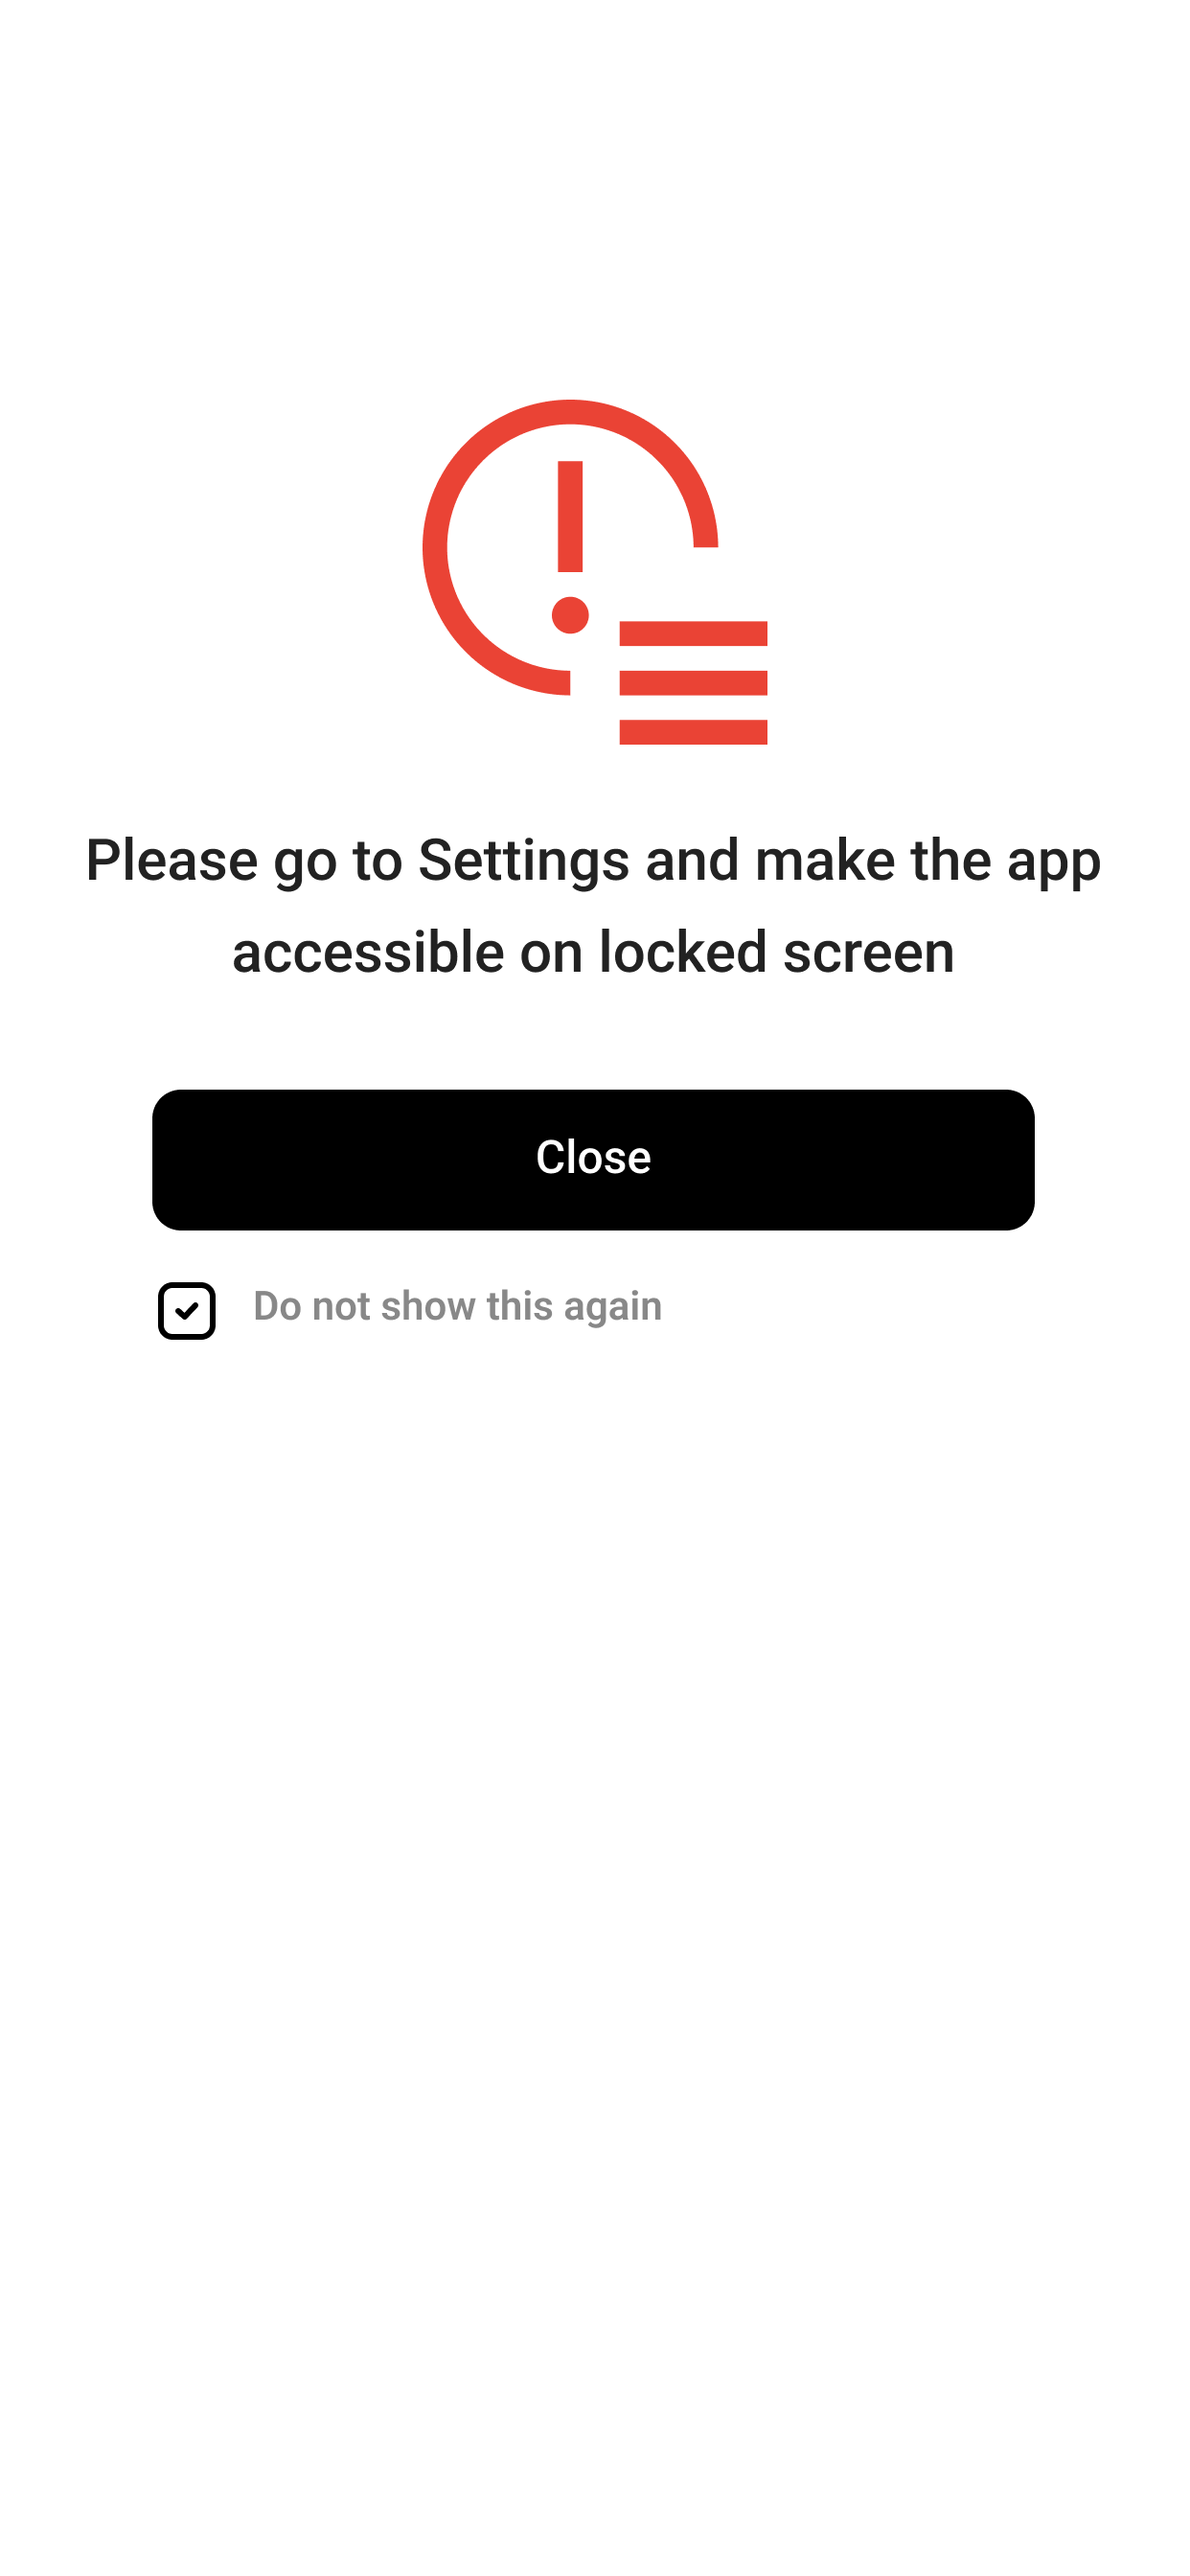
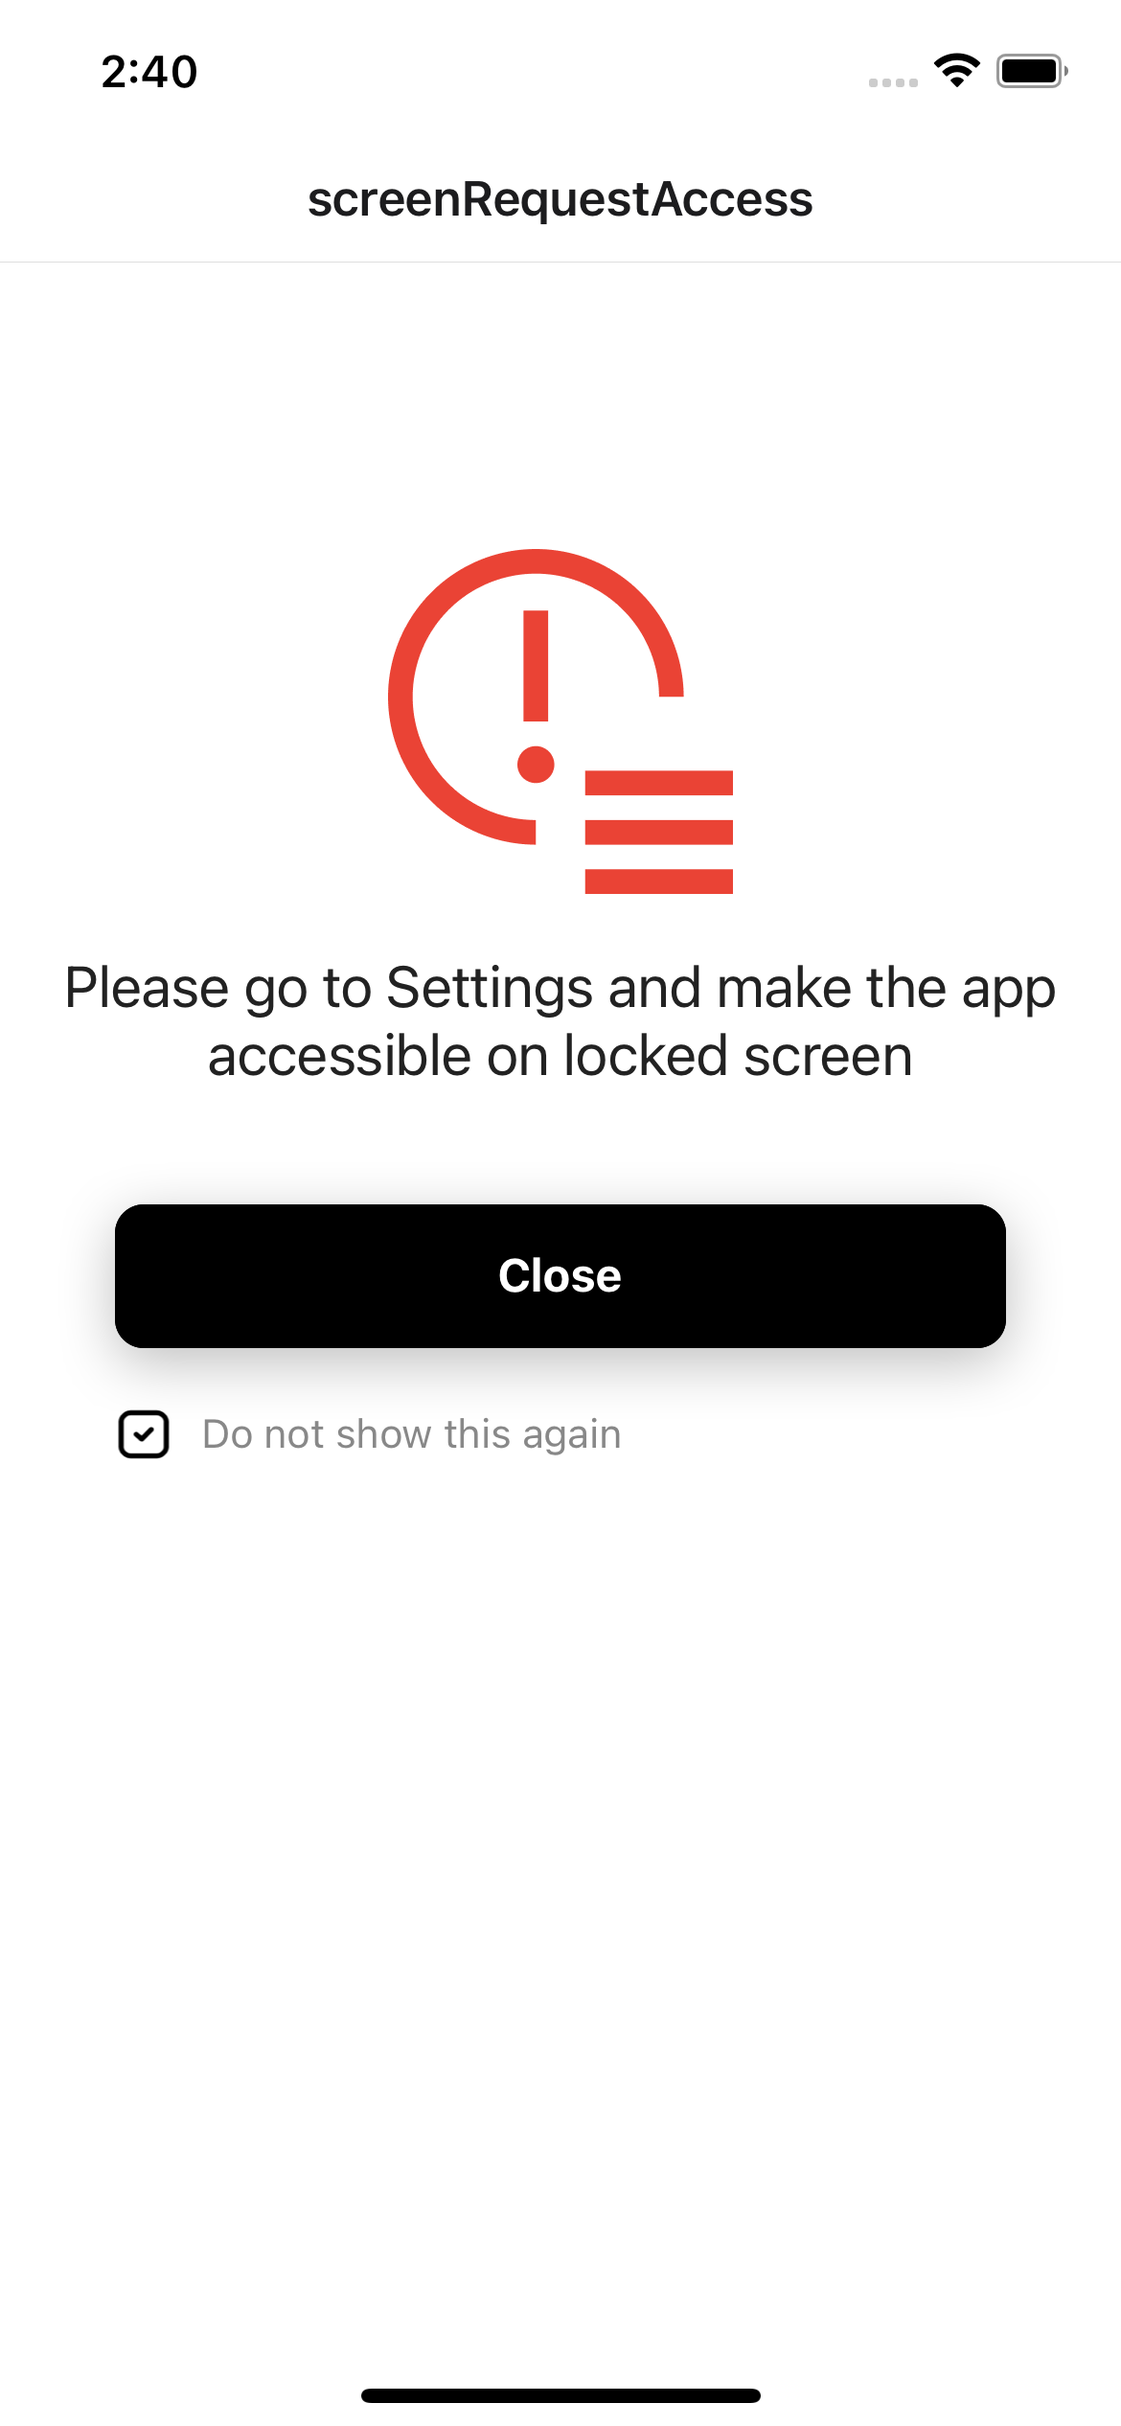
screen request access added

diff --git a/screens/screen-request-access/index.js b/screens/screen-request-access/index.js
@@ -1,14 +1,19 @@
-import React from "react";
-import {
-  Text,
-  View,
-  StyleSheet
-} from "react-native";
+import React, { useState } from "react";
+import { Text, View, StyleSheet, Image, Pressable } from "react-native";
 
 const RequestAccess = () => {
+  const [checked, setChecked] = useState(false);
   return (
     <View style={styles.container}>
-      <Text style={styles.heading}>Request Access</Text>
+      <Image style={styles.image} source={require("./assets/icon.png")} />
+      <Text style={styles.heading}>
+        Please go to Settings and make the app accessible on locked screen
+      </Text>
+      <Button buttonText="Close" style={styles.button} />
+      <View style={styles.flexRow}>
+        <Checkbox value={checked} setValue={setChecked} />
+        <Text style={styles.description}>Do not show this again</Text>
+      </View>
     </View>
   );
 };
@@ -18,8 +23,128 @@ const styles = StyleSheet.create({
     backgroundColor: "#fff"
   },
   heading: {
-    fontSize: 20
+    fontSize: 20,
+    textAlign: "center",
+    color: "#222222",
+    width: "90%",
+    alignSelf: "center"
+  },
+  image: {
+    width: 120,
+    height: 120,
+    alignSelf: "center",
+    marginTop: 100,
+    marginBottom: 20
+  },
+  button: {
+    marginHorizontal: 40,
+    marginTop: 40,
+    marginBottom: 20
+  },
+  flexRow: {
+    flexDirection: "row",
+    alignItems: "center",
+    marginHorizontal: 40
+  },
+  description: {
+    fontSize: 14,
+    color: "#888888",
+    marginLeft: 10
   }
 });
 
 export default RequestAccess;
+
+const Button = params => {
+  const backgroundColor = params.backgroundColor || "#000";
+  const textColor = params.textColor || "#fff";
+  const btnStyle = {
+    backgroundColor: backgroundColor,
+    borderColor: params.borderColor || backgroundColor,
+    borderWidth: 1
+  };
+  const btnText = {
+    color: textColor
+  };
+  return (
+    <View style={[buttonStyles.btnContainer, params.style]}>
+      <View style={!params.hideShadow ? buttonStyles.shadowContainer : null}>
+        <Pressable
+          style={[buttonStyles.btn, btnStyle]}
+          onPress={params.onPress}>
+          <Text style={[buttonStyles.btnText, btnText]}>
+            {params.buttonText}
+          </Text>
+          <View style={styles.childrenContainer}>{params.children}</View>
+        </Pressable>
+      </View>
+    </View>
+  );
+};
+
+const buttonStyles = StyleSheet.create({
+  btnContainer: {
+    justifyContent: "center"
+  },
+  shadowContainer: {
+    shadowColor: "rgba(0, 0, 0, 0.5)",
+    shadowOffset: {
+      width: 0,
+      height: 5
+    },
+    shadowOpacity: 0.5,
+    shadowRadius: 10,
+    elevation: 10,
+    backgroundColor: "#fff",
+    borderRadius: 10
+  },
+  btn: {
+    height: 50,
+    padding: 10,
+    paddingHorizontal: 25,
+    borderRadius: 10,
+    justifyContent: "center",
+    alignItems: "center",
+
+    flexDirection: "row"
+  },
+  btnText: {
+    color: "#fff",
+    fontSize: 16,
+    fontWeight: "bold"
+  },
+  childrenContainer: {
+    justifyContent: "center",
+    alignItems: "center"
+  }
+});
+
+const Checkbox = props => {
+  return (
+    <Pressable
+      onPress={() => {
+        props.setValue(!props.value);
+      }}
+      style={[checkboxStyles.container, props.style]}>
+      <Image
+        source={
+          props.value
+            ? require("./assets/checkboxIconActive.png")
+            : require("./assets/checkboxIcon.png")
+        }
+        style={[checkboxStyles.checkbox]}
+      />
+    </Pressable>
+  );
+};
+
+const checkboxStyles = StyleSheet.create({
+  container: {
+    height: 20,
+    width: 20
+  },
+  checkbox: {
+    height: "100%",
+    width: "100%"
+  }
+});

diff --git a/modules/index.js b/modules/index.js
@@ -2,7 +2,7 @@ import mods from "./*/index.js";
 import { getModules } from "./modules.js";
 
 export const modules = getModules(mods);
-export const initialRoute = "screenProductListing";
+export const initialRoute = "screenRequestAccess";
 // export const initialRoute = modules[0].value.title;
 export const slices = modules
   .filter(mod => mod.value.slice)
